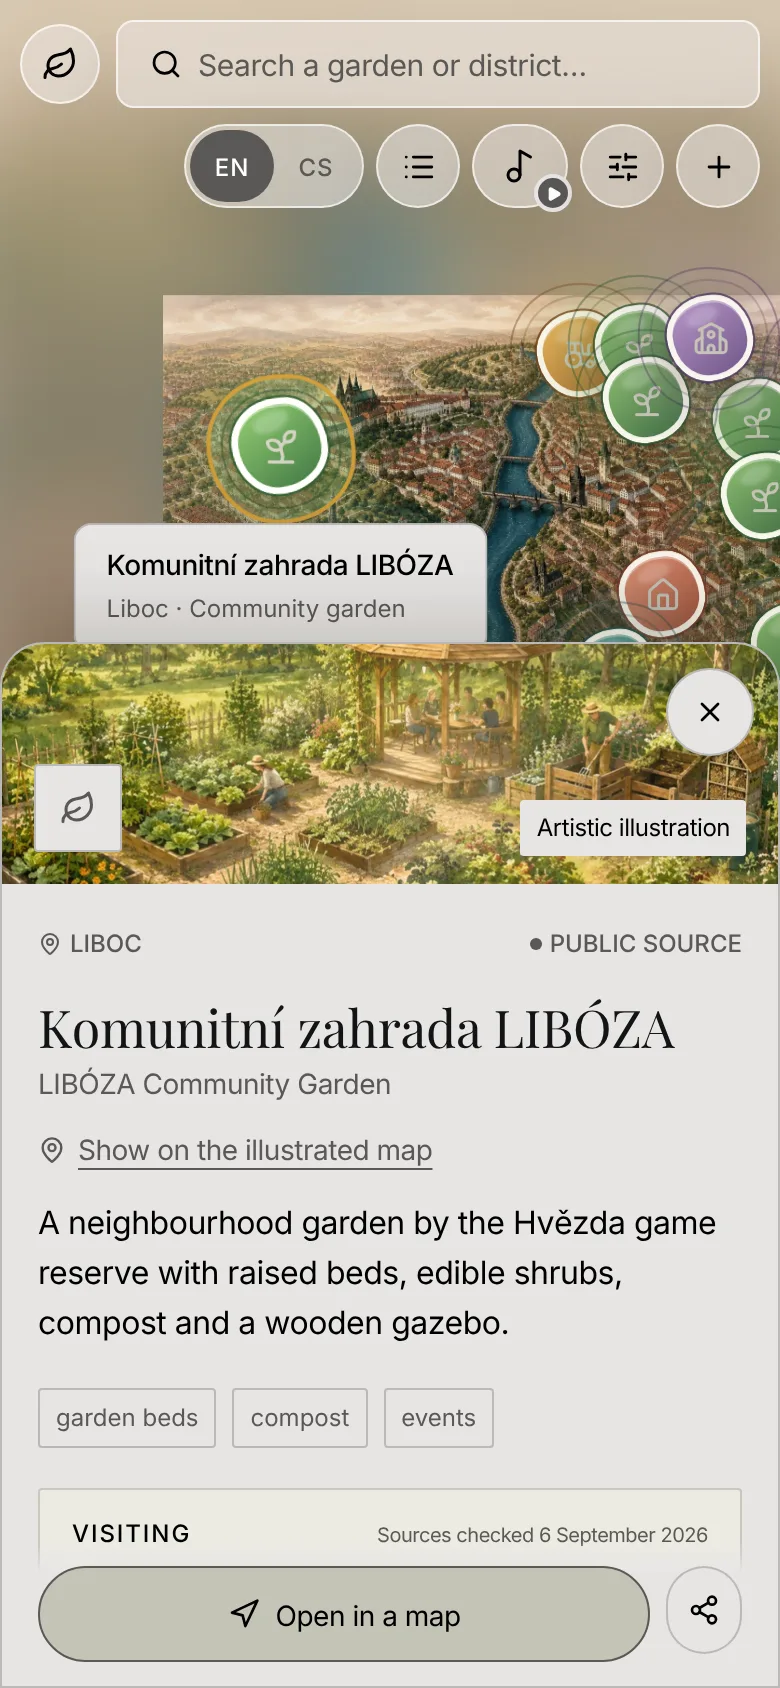
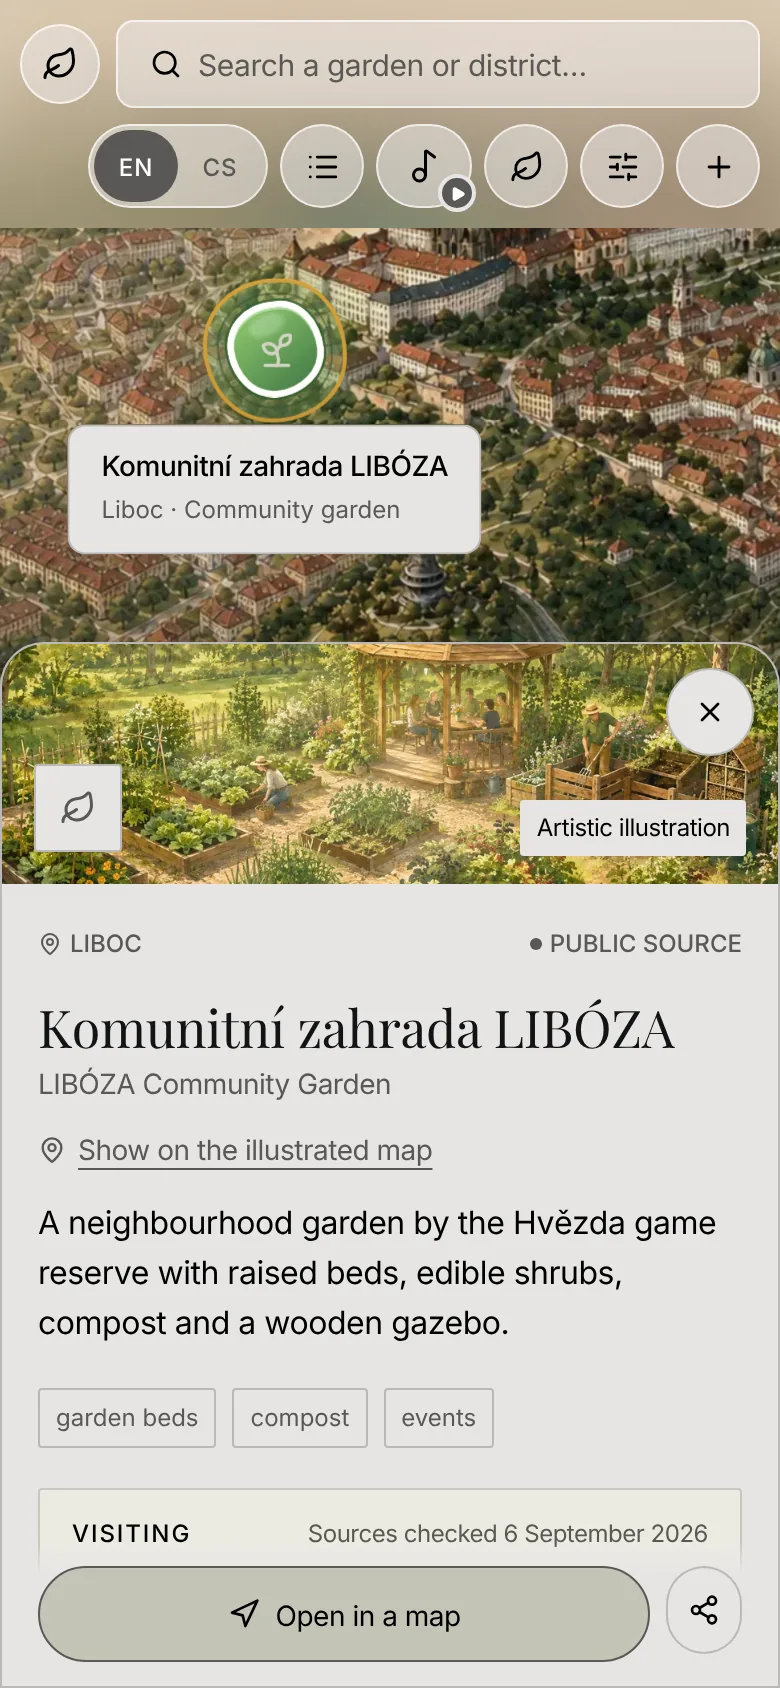
Describe the upright phone view in the docs
README shows the phone overview next to the garden detail (both retaken at
390 x 844), and README, AGENTS and the media notes describe the strips and
when the copies are used.

Claude-Session: https://claude.ai/code/session_012CdnnMZRGVazv7pDLfhkse

Changed region(s): [[0.0, 0.0616, 1.0, 0.5237], [0.4, 0.8934, 0.9231, 0.9242]]

diff --git a/README.md b/README.md
@@ -20,6 +20,7 @@ fully available in Czech.
 ![The illustrated map of Prague with the thirteen garden markers, search, the EN | CS switcher, filters and the character-of-the-place legend](docs/screenshots/atlas-desktop.webp)
 
 <p align="center">
+  <img src="docs/screenshots/atlas-phone.webp" alt="The illustrated map on a phone held upright: as high as the screen between the search and the map controls, with garden markers; it pans sideways to the other gardens" width="32%">
   <img src="docs/screenshots/garden-detail-phone.webp" alt="A garden detail on a phone: illustration labelled as an artistic rendering, description, tags and sourced visiting information" width="32%">
 </p>
 
@@ -51,8 +52,9 @@ fully available in Czech.
 - **No tracking, no data collection.** No analytics, no cookies, no forms. The
   only things stored are in your own browser: the chosen language and the
   postcard's position.
-- Built for desktop; a phone layout exists (map full screen, details and list
-  as bottom sheets) but is secondary.
+- Built for desktop; a phone layout exists (held upright, the map fills the
+  height and pans sideways; details and list as bottom sheets) but is
+  secondary.
 
 ## Who it is for
 
@@ -137,8 +139,8 @@ src/
   fonts.css             The fonts (latin-ext cut to Czech and Slovak letters)
 components/
   i18n/                 LocaleProvider (locale state, useT hook) and LanguageSwitcher
-  map/                  MapViewport (pan/zoom, keyboard), MapArt (the illustration,
-                        lighter on phones) and MapMotionLayer (boats, birds)
+  map/                  MapViewport (pan/zoom, keyboard), MapArt (the illustration
+                        and its phone versions) and MapMotionLayer (boats, birds)
   ui/                   shadcn/Base UI primitives
 lib/
   i18n.ts               Interface dictionary (en, cs), locale helpers, date formatting
@@ -157,7 +159,7 @@ tests/production/       Live-site check run after each production deployment
 docs/                   Rebuild notes and media provenance (prompts and tools)
 design/                 Design tokens and theme reference
 scripts/                The static build, its server and asset scripts (sprites,
-                        phone copies of the map, thumbnails)
+                        phone versions of the map, thumbnails)
 PRODUCT.md              Product principles the project is held to
 ```
 

diff --git a/docs/visual-generation-prompts.md b/docs/visual-generation-prompts.md
@@ -52,7 +52,7 @@ Create a seamless-loop instrumental soundscape for an illustrated interactive ma
 - Mode: built-in image generation, image edit/outpainting.
 - Edit target: `public/map/prague-storybook-vltava-v5.webp`.
 - Original generated file: kept outside the repository (`prague-storybook-vltava-zoomed-out-25pct-v1.png` in the owner's map-candidates folder); only the converted production asset is committed.
-- Workspace production asset: `public/map/prague-storybook-vltava-v6-wide.webp`. Phones start with `-960.webp` and `-1280.webp`, resized from it by `scripts/build-map-variants.mjs` (Lanczos, WebP quality 75).
+- Workspace production asset: `public/map/prague-storybook-vltava-v6-wide.webp`. Phones held upright show it in three full-resolution strips, `-strip-left.webp`, `-strip-centre.webp` and `-strip-right.webp` (cut at 30 % and 70 % of the width with 2 px of overlap, WebP quality 78); small phones held sideways start with `-960.webp` and `-1280.webp`, resized from it (Lanczos, WebP quality 75). `scripts/build-map-variants.mjs` makes both.
 
 Exact production prompt:
 

diff --git a/AGENTS.md b/AGENTS.md
@@ -52,9 +52,11 @@ local build with `PROD_URL=http://127.0.0.1:4173/`.
   with sources), `lib/i18n.ts` (dictionary: `en` sets the shape, `cs` mirrors
   it).
 - `components/map/MapViewport.tsx` and `lib/map/viewport.ts`: pan, zoom,
-  pinch and the camera maths. `components/map/MapArt.tsx`: the illustration;
-  phones start with a lighter copy (`lib/map/art.ts`, made by
-  `scripts/build-map-variants.mjs`) and get the original once zoomed in.
+  pinch and the camera maths. `components/map/MapArt.tsx`: the illustration.
+  A phone held upright shows it as high as the stage in three full-resolution
+  strips, and `app/mobile.css` gives it that height before the app runs; a
+  small phone held sideways starts with a lighter copy and gets the original
+  once zoomed in (`lib/map/art.ts`, made by `scripts/build-map-variants.mjs`).
 - Addresses (`lib/routes.ts`): `/` and `/cs/` for the atlas, `/zahrada/<id>/`
   and `/cs/zahrada/<id>/` for each garden; titles, descriptions and
   structured data in `lib/page-meta.ts`. `src/main.tsx` loads the styles
